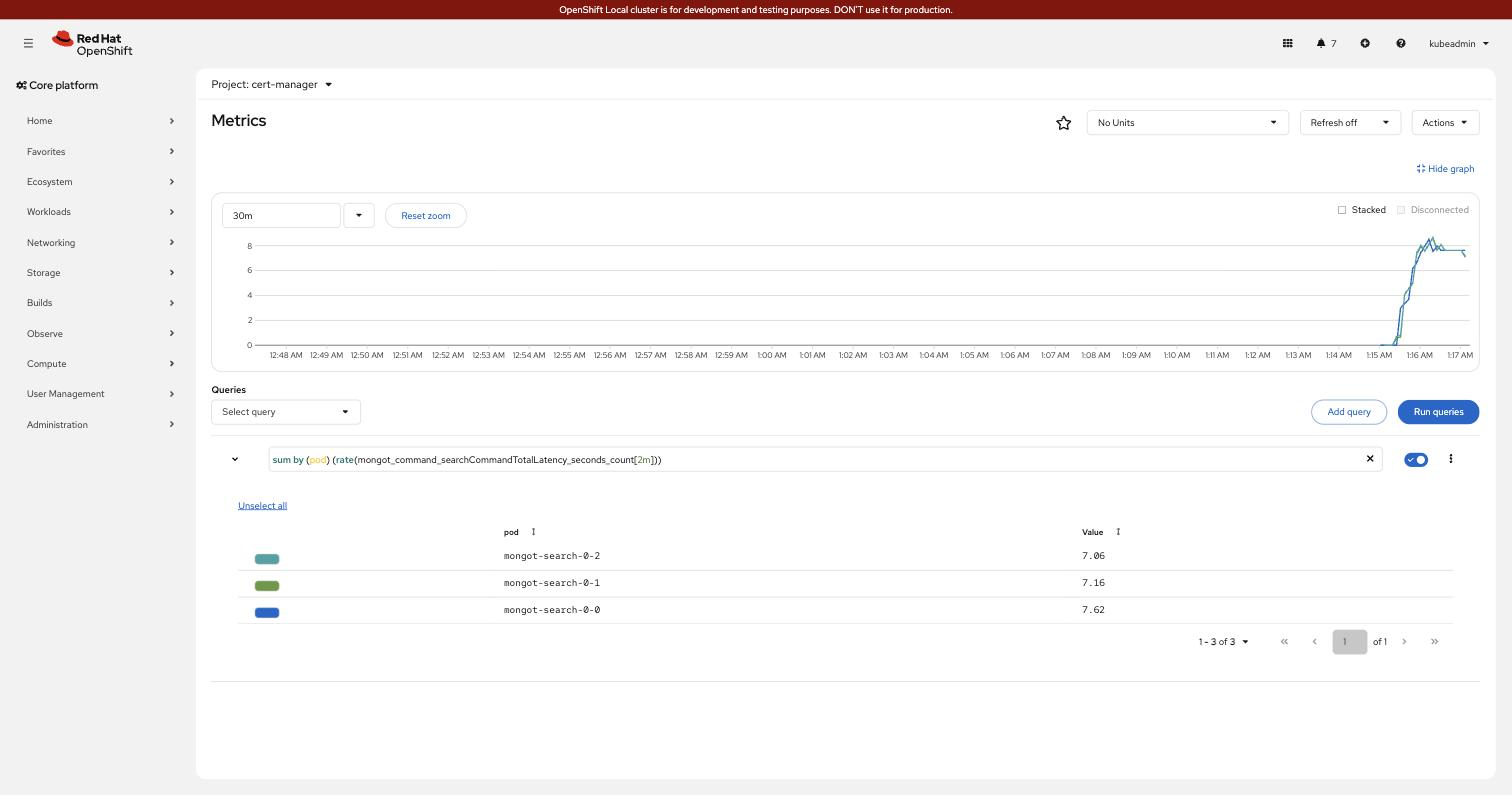
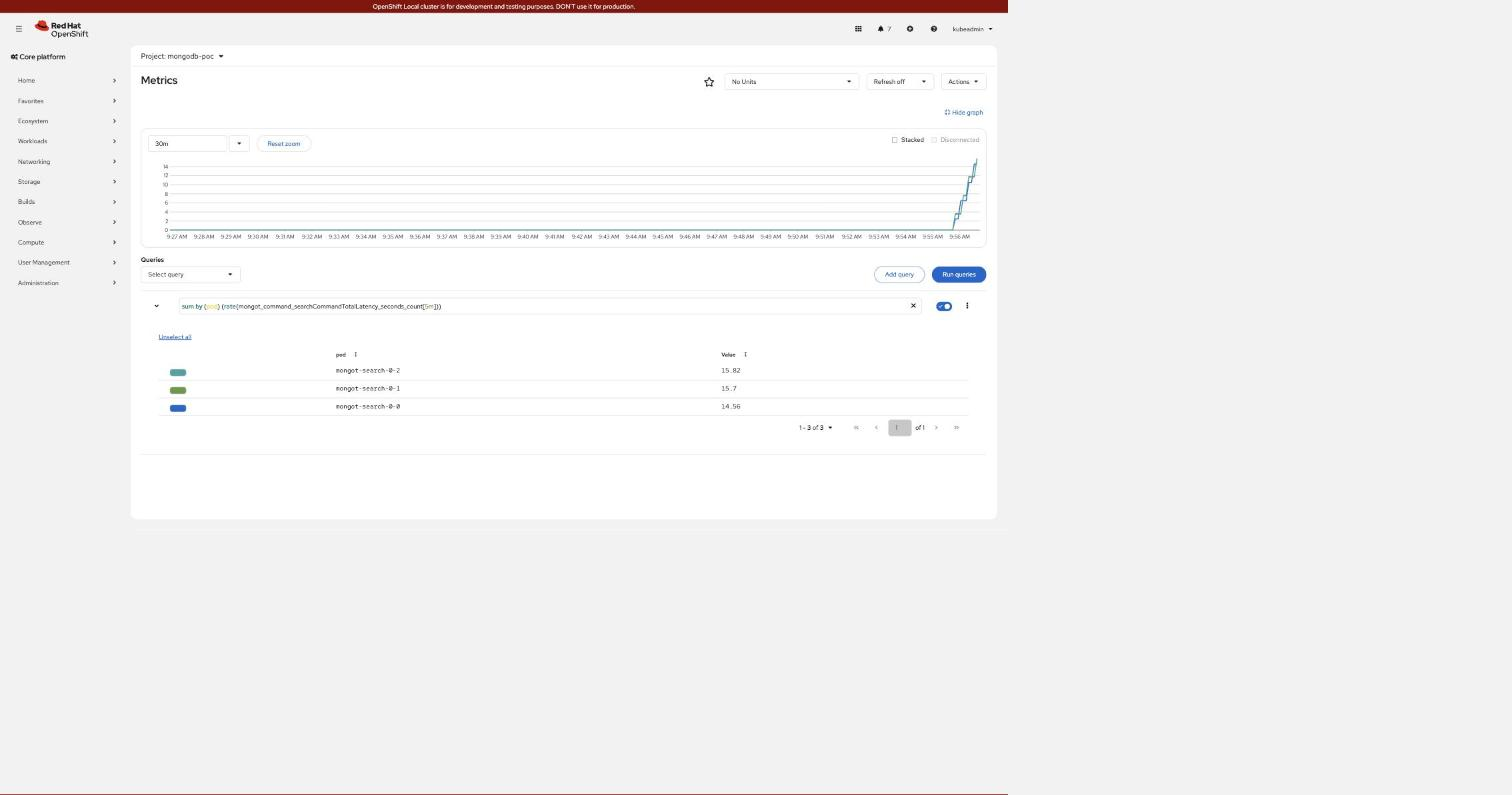
Re-capture the stale screenshots and add five more
Three console captures had gone out of date with today's changes, and several
things added today had no visual evidence at all.

Re-captured:

  console-services.jpg    now shows mongot-search-lb with Location "None"
                          (headless) selecting app=mongot-search-lb-0, alongside
                          the MetalLB VIP at 192.168.127.100 and the operator's
                          ClusterIP proxy Service
  console-route.jpg       the Route detail page rather than the list, showing
                          Service: mongot-search-lb, target port 27028 and
                          termination passthrough - the old one still pointed at
                          mongot-search-0-proxy-svc
  console-metrics-distribution.jpg
                          three pods at 15.82 / 15.7 / 14.56 q/s after a 60s
                          load of 13,663 queries

New:

  console-alert-rules.jpg     the four rules with Source: User. Worth having
                              because the console defaults to
                              alert-source=platform, which hides them entirely
                              and looks exactly like a failed load - the filter
                              that shows them is ?name=Mongot&alert-source=user
  gui-text-the.jpg            ?q=the&mode=text -> mongot-search-0-1, 1190 ms
  gui-text-the-again.jpg      the IDENTICAL url again -> mongot-search-0-0,
                              901 ms. Same query, same eight results, different
[…]

diff --git a/OBSERVE.md b/OBSERVE.md
@@ -96,6 +96,21 @@ https://mongot-gui-mongodb-poc.apps-crc.testing/?q=the&mode=text
 https://mongot-gui-mongodb-poc.apps-crc.testing/?q=detective&mode=vector
 ```
 
+The same URL, loaded twice in a row. Nothing changed but the pod that answered:
+
+<!-- markdownlint-disable MD033 -->
+<img alt="The GUI at ?q=the&mode=text. The WHICH MONGOT SERVED THIS QUERY panel shows mongot-search-0-1 with +1 and lifetime 8985, the other two pods showing a dash. Eight film results, all titles beginning with The, each scoring 0.7269." src="docs/screenshots/gui-text-the.jpg">
+<img alt="The identical URL loaded again. Now mongot-search-0-0 shows +1 with lifetime 8997 while mongot-search-0-1 and -0-2 show a dash. The eight results are unchanged." src="docs/screenshots/gui-text-the-again.jpg">
+<!-- markdownlint-enable MD033 -->
+
+```text
+first load    mongot-search-0-1   +1   lifetime 8985   1190 ms
+second load   mongot-search-0-0   +1   lifetime 8997    901 ms
+```
+
+Same query, same URL, same eight results — a different pod each time. That is the round
+robin at step (9) of [ENVOY-FLOW.md](ENVOY-FLOW.md), one request at a time.
+
 | Parameter | Values | Default |
 |---|---|---|
 | `q` | any string | empty — the page renders with no query run |
@@ -145,6 +160,22 @@ Anything else — `?q=the&mode=vector`, for example — returns `[0.2, 0.2, 0.2,
 is equidistant from every theme. **It does not fail. It returns eight results in a
 meaningless order**, and the pod-attribution panel still works, because the request really did
 travel `mongod` → Envoy → `mongot` and come back.
+
+The difference is visible side by side — a word the table knows, against one it does not:
+
+<!-- markdownlint-disable MD033 -->
+<img alt="Vector search for detective. All eight results are the noir genre, every one scoring exactly 1.0000, served by mongot-search-0-2." src="docs/screenshots/gui-vector-detective.jpg">
+<img alt="Vector search for the, a word the theme table does not know. The eight results are a mix of thriller and sci-fi scoring between 0.8608 and 0.8705, with no coherent theme, served by mongot-search-0-1." src="docs/screenshots/gui-vector-fallback.jpg">
+<!-- markdownlint-enable MD033 -->
+
+```text
+?q=detective&mode=vector   8 results, ALL noir,          every score 1.0000
+?q=the&mode=vector         8 results, thriller + sci-fi, scores 0.8608 - 0.8705
+```
+
+`detective` lands exactly on the noir axis, so eight noir films score a perfect 1.0. `the`
+lands nowhere, so the ranking is arbitrary — but the lifetime counters moved in both cases.
+The *transport* works perfectly; only the *ranking* is meaningless.
 
 That is fine for what this GUI is for — showing one request landing on one pod — but the
 *ranking* in vector mode is only meaningful for those ten words. Real semantic search needs an

diff --git a/TESTING.md b/TESTING.md
@@ -89,6 +89,23 @@ In OpenShift user-workload monitoring a user-namespace `PrometheusRule` is evalu
 `ruleSelector` match expressions say so explicitly. Querying the wrong one reports a
 perfectly healthy rule group as missing — the `alerts` suite queries Thanos Ruler.
 
+In the console they appear under **Observe → Alerting → Alerting rules** with
+**Source: User**, which is what separates them from the 228 platform rules:
+
+<!-- markdownlint-disable MD033 -->
+<img alt="The OpenShift console Alerting rules list filtered to name Mongot and source User, showing four rules: MongotEnvoyRetriesElevated and MongotTrafficNotDistributed as Warning, MongotNoSearchTraffic and MongotPodReceivingNoTraffic as Info." src="docs/screenshots/console-alert-rules.jpg">
+<!-- markdownlint-enable MD033 -->
+
+```text
+MongotEnvoyRetriesElevated    Warning   User
+MongotNoSearchTraffic         Info      User
+MongotPodReceivingNoTraffic   Info      User
+MongotTrafficNotDistributed   Warning   User
+```
+
+Filter with `?name=Mongot&alert-source=user`. The default `alert-source=platform` hides them
+entirely, which looks exactly like the rules having failed to load.
+
 
 ## Step 1 — the sample data
 

diff --git a/README.md b/README.md
@@ -1106,7 +1106,7 @@ what you put here. Running on names requires the set to *advertise* names.
 | `mongodb/scripts/` | loaders, `verify-search.sh`, `load-test.sh`, bootstrap scripts |
 | `docs/envoy/` | `bootstrap.json`, `cds.json`, `lds.json` as read from the running proxy |
 | `docs/diagrams/` | 3 figure sources and 28 rendered PNGs |
-| `docs/screenshots/` | 8 console captures: pods, Services, the Route, metrics, the GUI |
+| `docs/screenshots/` | 13 captures: pods, Services, the Route, the CR, alert rules, metrics, and five GUI searches |
 
 ---
 
